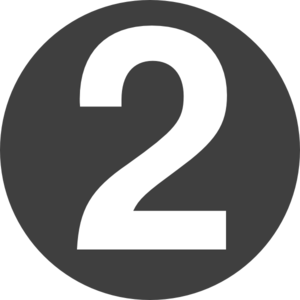
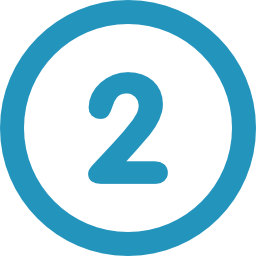
Update 1

diff --git a/trenutni.html b/trenutni.html
@@ -64,11 +64,16 @@
  <h1>Moj red</h1>
 <h3>Trenutno čekate u redu MUP/osobne iskaznice.</h3>
 
+    <div class="progress">
+        <div class="progress-bar progress-bar-info progress-bar-striped" role="progressbar" aria-valuenow="20" aria-valuemin="0" aria-valuemax="100" style="width: 100%">
+            <span class="sr-only">20% Complete</span>
+        </div>
+</div>
 
     <div class="row">
         <div class="col-sm-6 col-md-4">
             <div class="thumbnail">
-                <img src="images/11.png" alt="...">
+                <img src="images/2.png" alt="...">
                 <div class="caption">
                     <h3>Vaš broj</h3>
                     <p>Procijenjeno vrijeme čekanja je 40 minuta</p>
@@ -81,21 +86,21 @@
     <div class="row">
         <div class="col-sm-6 col-md-4">
             <div class="thumbnail">
-                <img src="images/2.jpg" alt="...">
+                <img src="images/9.png" alt="...">
                 <div class="caption">
                     <h3>Trenutni broj</h3>
-                    <p>vi ste deveti u redu čekanja</p>
+                    <p>Vi ste sedmi u redu čekanja</p>
                 </div>
             </div>
         </div>
 
-        <h4>Obavijesti me kada sam na _____ redu</h4>
+        <h4>Obavijesti me kada sam
         <div class="btn-group" role="group" aria-label="...">
-            <button type="button" class="btn btn-default">Deveti</button>
-            <button type="button" class="btn btn-default">Šesti</button>
             <button type="button" class="btn btn-default">Treći</button>
+            <button type="button" class="btn btn-default">Šesti</button>
+            <button type="button" class="btn btn-default">Deveti</button>
         </div>
-
+        na redu </h4>
         <p>
 
 

diff --git a/red.html b/red.html
@@ -72,11 +72,10 @@
     </div>
 
     <div class="progress">
-        <div class="progress-bar" role="progressbar" aria-valuenow="60" aria-valuemin="0" aria-valuemax="100" style="width: 77%;">
-            Idući korak je uzeti broj
+        <div class="progress-bar progress-bar-info progress-bar-striped" role="progressbar" aria-valuenow="60" aria-valuemin="0" aria-valuemax="100" style="width: 70%">
+            <span class="sr-only">20% Complete</span>
         </div>
-    </div>
-
+        </div>
     <div>
         <button type="button" class="btn btn-lg" onclick="window.location.href='ustanova.html'">Natrag</button>
     </div>

diff --git a/ustanova.html b/ustanova.html
@@ -72,10 +72,9 @@
     </div>
 
     <div class="progress">
-        <div class="progress-bar" role="progressbar" aria-valuenow="60" aria-valuemin="0" aria-valuemax="100" style="width: 35%;">
-            Idući korak je odabrati red
+        <div class="progress-bar progress-bar-info progress-bar-striped" role="progressbar" aria-valuenow="40" aria-valuemin="0" aria-valuemax="100" style="width: 20%">
+            <span class="sr-only">20% Complete</span>
         </div>
-    </div>
 
 
 </div>
